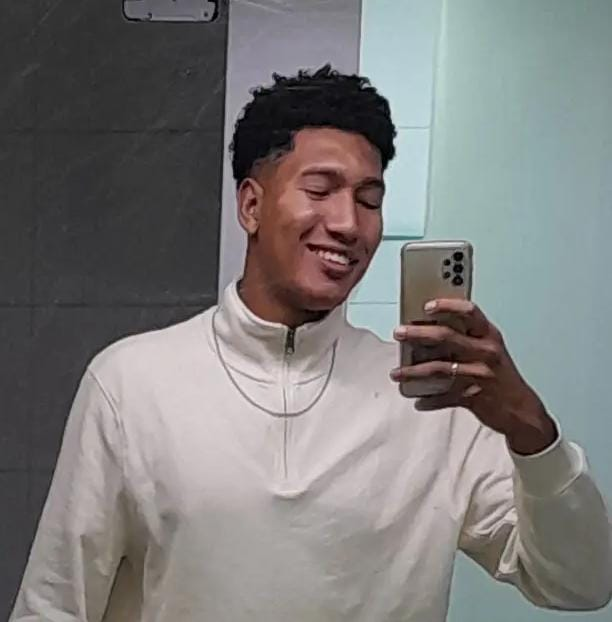
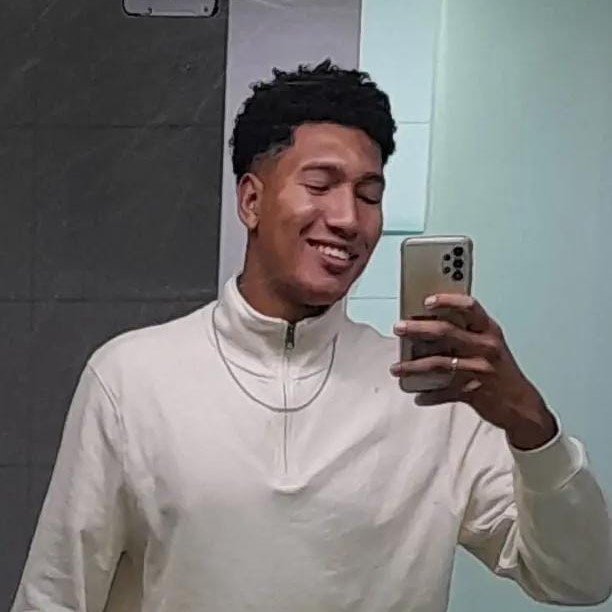
aa

diff --git a/index.html b/index.html
@@ -27,8 +27,8 @@
             <div class="home-grid-container">
                 <div class="apresentacao">
                     <h3 class="apresentacao-titulo">Quem Somos nós</h3>
-                    <img class="foto-de-perfil foto-de-perfil-1" src="images/casal.jpg" alt="foto nossa de casal">
-                    <img class="foto-de-perfil foto-de-perfil-2" src="images/casal.jpg" alt="foto nossa de casal">
+                    <img class="foto-de-perfil foto-de-perfil-1" src="images/home-page/perfil-joao.jpg" alt="foto nossa de casal">
+                    <img class="foto-de-perfil foto-de-perfil-2" src="images/home-page/perfil-mariny.jpg" alt="foto nossa de casal">
                     <p class="apresentacao-p">
                         Mariny Diogo dos Santos, ela, que sempre viveu na minúscula cidade de Volta Redonda, conheceu e se apaixonou a
                         primeira vista por esse nobre e belo rapaz (que sou eu).

diff --git a/styles/myriny.css b/styles/myriny.css
@@ -162,7 +162,7 @@ h2 {
     grid-row: 1/3;
     display: grid;
     grid-template-columns: 1fr 1fr 1fr;
-    grid-auto-rows: 90px;
+    grid-auto-rows: 150px;
     grid-gap: 5px;
 }
 .foto-de-perfil-1 {
